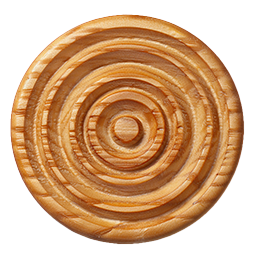
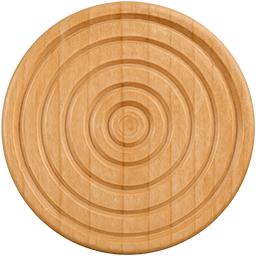
images: Update some background and piece images

diff --git a/src/ui/flutter_app/lib/appearance_settings/widgets/pickers/piece_image_picker.dart b/src/ui/flutter_app/lib/appearance_settings/widgets/pickers/piece_image_picker.dart
@@ -19,6 +19,10 @@ final List<String> _pieceBgPaths = <String>[
   Assets.images.blackPieceImage5.path,
   Assets.images.whitePieceImage6.path,
   Assets.images.blackPieceImage6.path,
+  Assets.images.whitePieceImage7.path,
+  Assets.images.blackPieceImage7.path,
+  Assets.images.whitePieceImage8.path,
+  Assets.images.blackPieceImage8.path,
 ];
 
 /// A stateful widget that allows users to pick piece images for both players,

diff --git a/src/ui/flutter_app/lib/appearance_settings/widgets/pickers/background_image_picker.dart b/src/ui/flutter_app/lib/appearance_settings/widgets/pickers/background_image_picker.dart
@@ -15,6 +15,8 @@ final List<String> _bgPaths = <String>[
   Assets.images.backgroundImage6.path,
   Assets.images.backgroundImage7.path,
   Assets.images.backgroundImage8.path,
+  Assets.images.backgroundImage9.path,
+  Assets.images.backgroundImage10.path,
 ];
 
 /// A stateful widget that allows users to pick a background image.

diff --git a/src/ui/flutter_app/lib/appearance_settings/widgets/pickers/board_image_picker.dart b/src/ui/flutter_app/lib/appearance_settings/widgets/pickers/board_image_picker.dart
@@ -15,6 +15,8 @@ final List<String> _boardPaths = <String>[
   Assets.images.backgroundImage6.path,
   Assets.images.backgroundImage7.path,
   Assets.images.backgroundImage8.path,
+  Assets.images.backgroundImage9.path,
+  Assets.images.backgroundImage10.path,
 ];
 
 /// A stateful widget that allows users to pick a board image.
